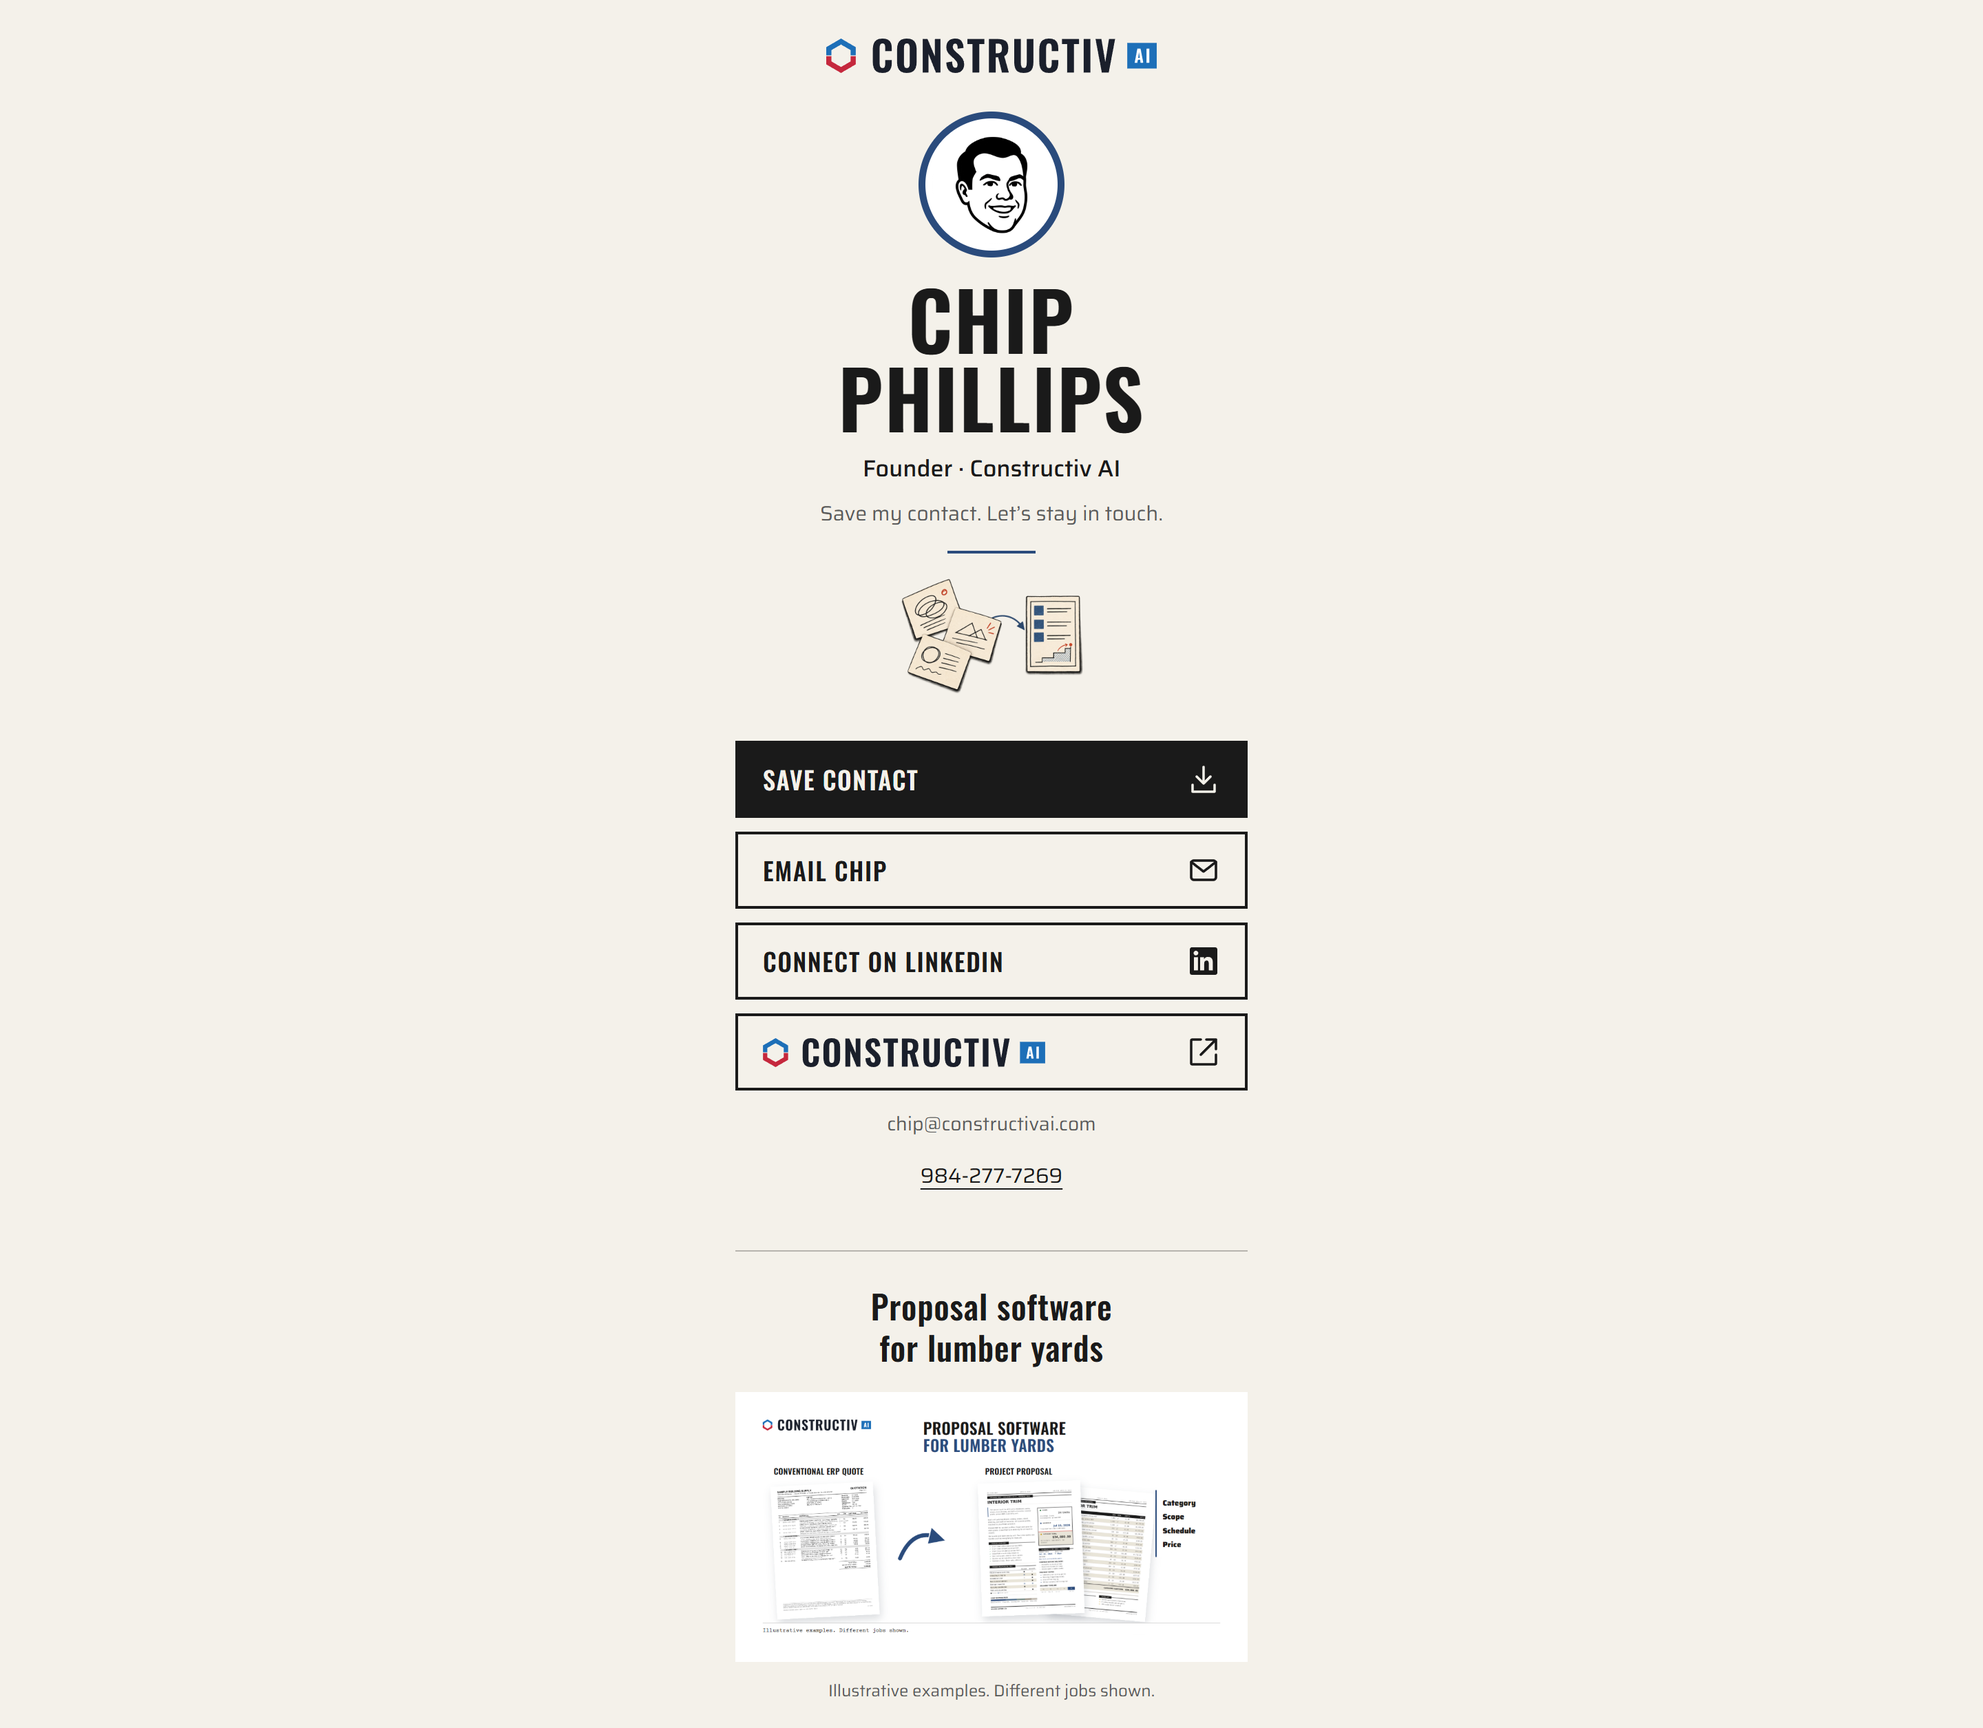
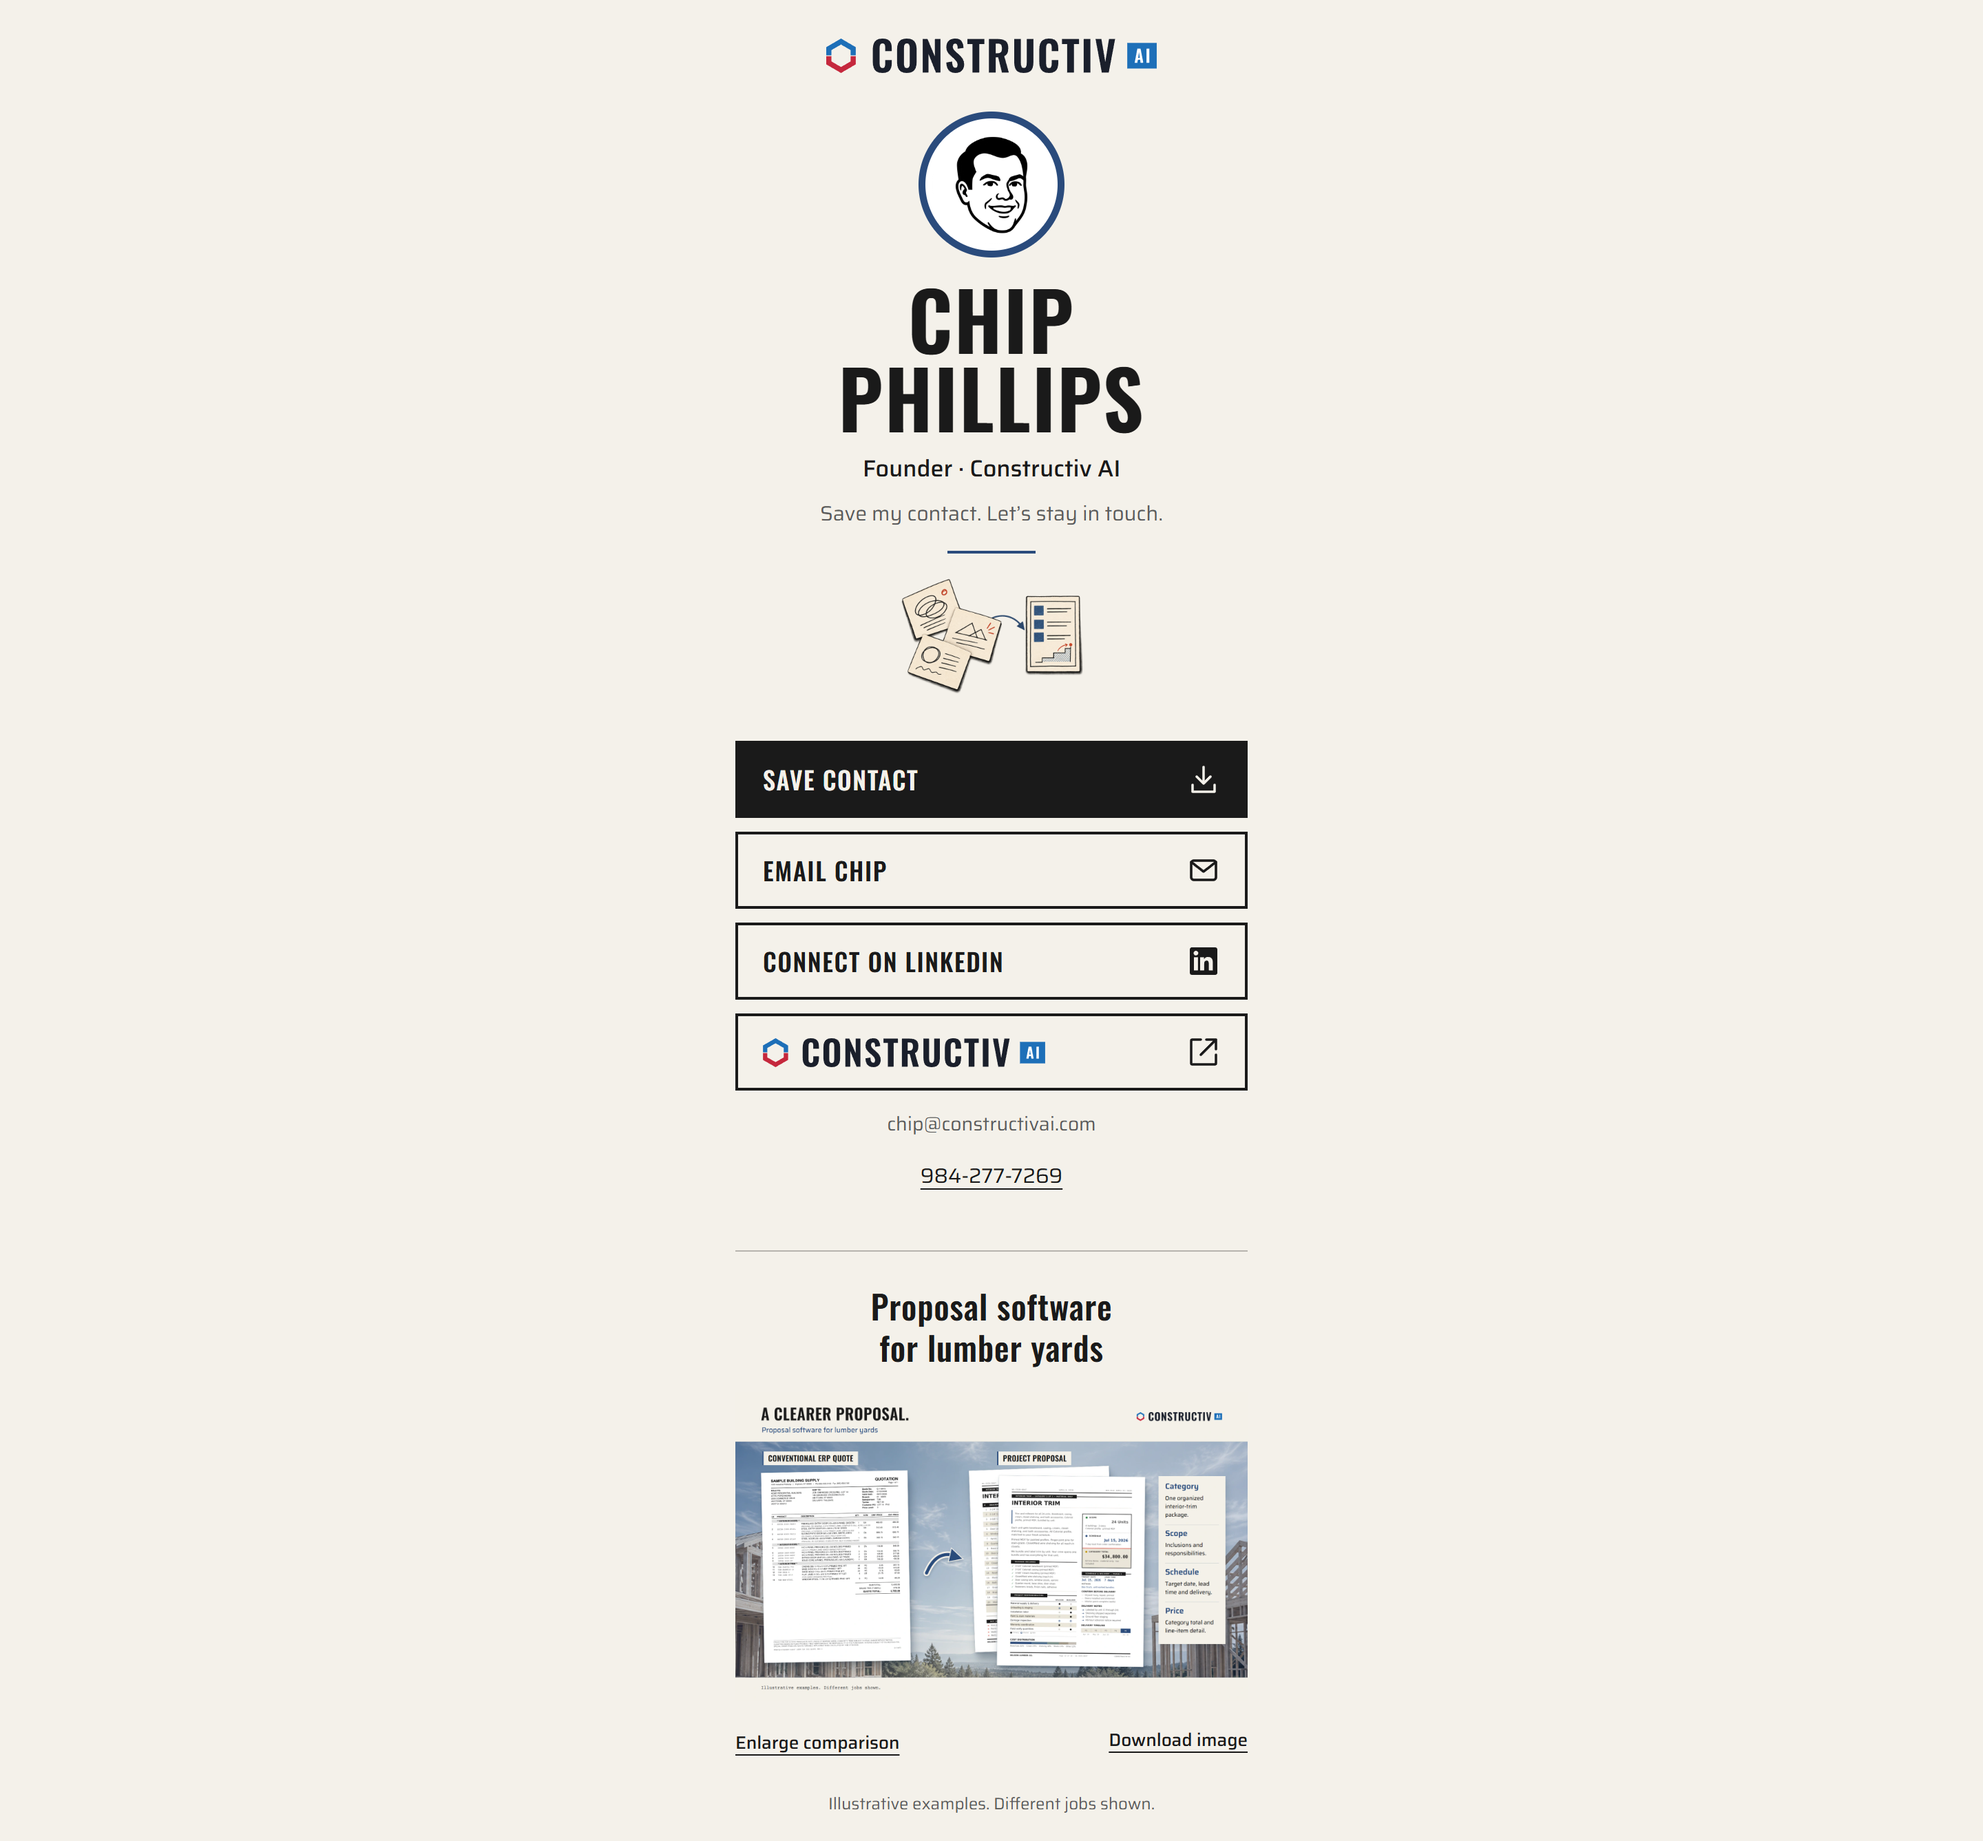
Polish share artwork and add accessible comparison viewer

Changed region(s): [[0.3438, 0.0311, 0.6562, 0.9944]]

diff --git a/docs/index.html b/docs/index.html
@@ -1,5 +1,5 @@
 <!doctype html>
-<html lang="en"><head><meta charset="utf-8"><meta name="viewport" content="width=device-width, initial-scale=1"><meta name="color-scheme" content="light"><title>Chip Phillips | Founder, Constructiv AI</title><meta name="description" content="Connect with Chip Phillips, Founder of Constructiv AI. Save his contact card, send an email, or visit Constructiv AI."><meta property="og:type" content="profile"><meta property="og:title" content="Chip Phillips | Constructiv AI"><meta property="og:description" content="Founder, Constructiv AI. Save my contact details and stay in touch."><meta property="og:site_name" content="Constructiv AI"><link rel="stylesheet" href="style.css"><link rel="canonical" href="https://chipphillips.github.io/chip-contact/"><meta property="og:url" content="https://chipphillips.github.io/chip-contact/"><meta property="og:image" content="https://chipphillips.github.io/chip-contact/assets/chip-phillips-contact-v2.png"><meta property="og:image:width" content="1200"><meta property="og:image:height" content="630"><meta property="og:image:alt" content="Chip Phillips, Founder of Constructiv AI, with an illustrated portrait and notes-to-plan illustration."><meta name="twitter:card" content="summary_large_image"><meta name="twitter:image" content="https://chipphillips.github.io/chip-contact/assets/chip-phillips-contact-v2.png"><meta name="twitter:title" content="Chip Phillips | Constructiv AI"><meta name="twitter:description" content="Founder, Constructiv AI. Save my contact details and stay in touch."></head>
+<html lang="en"><head><meta charset="utf-8"><meta name="viewport" content="width=device-width, initial-scale=1"><meta name="color-scheme" content="light"><title>Chip Phillips | Founder, Constructiv AI</title><meta name="description" content="Connect with Chip Phillips, Founder of Constructiv AI. Save his contact card, send an email, or visit Constructiv AI."><meta property="og:type" content="profile"><meta property="og:title" content="Chip Phillips | Constructiv AI"><meta property="og:description" content="Founder, Constructiv AI. Save my contact details and stay in touch."><meta property="og:site_name" content="Constructiv AI"><link rel="stylesheet" href="style.css"><link rel="canonical" href="https://chipphillips.github.io/chip-contact/"><meta property="og:url" content="https://chipphillips.github.io/chip-contact/"><meta property="og:image" content="https://chipphillips.github.io/chip-contact/assets/chip-phillips-contact-v3.png"><meta property="og:image:width" content="1200"><meta property="og:image:height" content="630"><meta property="og:image:alt" content="Chip Phillips, Founder of Constructiv AI, with his portrait, email, phone number, and a jobsite background."><meta name="twitter:card" content="summary_large_image"><meta name="twitter:image" content="https://chipphillips.github.io/chip-contact/assets/chip-phillips-contact-v3.png"><meta name="twitter:title" content="Chip Phillips | Constructiv AI"><meta name="twitter:description" content="Founder, Constructiv AI. Save my contact details and stay in touch."></head>
 <body>
 
 <main>
@@ -20,5 +20,5 @@
 </nav>
 <p class="contact-address">chip@constructivai.com</p>
 <p class="phone"><a href="tel:+19842777269">984-277-7269</a></p>
-<section class="product" aria-labelledby="product-title"><h2 id="product-title">Proposal software<br>for lumber yards</h2><a class="comparison" href="assets/quote-proposal-comparison.png" aria-label="View the quote and proposal comparison at full size"><img src="assets/quote-proposal-comparison.png" width="1200" height="630" alt="Conventional ERP quote and a project proposal organized by category, scope, schedule, and price."></a><p>Illustrative examples. Different jobs shown.</p></section>
-</main></body></html>
+<section class="product" aria-labelledby="product-title"><h2 id="product-title">Proposal software<br>for lumber yards</h2><a class="comparison" id="comparison-open" aria-haspopup="dialog" href="assets/quote-proposal-v3-large.png" aria-label="View the quote and proposal comparison at full size"><img src="assets/quote-proposal-v3.webp" width="1800" height="1080" alt="Conventional ERP quote and a project proposal organized by category, scope, schedule, and price."></a><div class="image-tools"><button type="button" id="enlarge-button">Enlarge comparison</button><a href="assets/quote-proposal-v3-large.png" download="Constructiv-AI-comparison.png">Download image</a></div><p>Illustrative examples. Different jobs shown.</p></section>
+</main><dialog id="image-viewer" aria-labelledby="viewer-title"><div class="viewer-head"><h2 id="viewer-title">Quote &amp; proposal comparison</h2><button type="button" id="viewer-close" autofocus aria-label="Close enlarged image">Close <span aria-hidden="true">×</span></button></div><div class="viewer-scroll" tabindex="0" aria-label="Enlarged comparison; scroll to explore"><img src="assets/quote-proposal-v3-large.png" width="3600" height="2160" loading="lazy" alt="Conventional ERP quote and a project proposal organized by category, scope, schedule, and price."></div><div class="viewer-footer"><p><span class="pan-hint">Swipe sideways to explore the full image.<br></span>Illustrative examples. Different jobs shown.</p><a href="assets/quote-proposal-v3-large.png" download="Constructiv-AI-comparison.png">Download image</a></div></dialog><script src="viewer.js" defer></script></body></html>

diff --git a/docs/style.css b/docs/style.css
@@ -21,3 +21,7 @@ h1{font:650 52px/.98 Oswald,'Arial Narrow',sans-serif;margin:0;letter-spacing:0}
 .brand-action img{width:205px;max-width:82%;height:auto}.phone{text-align:center;margin:5px 0 0;font-size:15px}.phone a{color:var(--ink);text-underline-offset:4px;display:inline-flex;align-items:center;min-height:44px}.product{border-top:1px solid #b7b4ae;margin-top:32px;padding-top:24px;text-align:center}.product h2{font:550 24px/1.25 Oswald,sans-serif;letter-spacing:.018em;margin:0 0 18px}.comparison{display:block;background:#fff}.comparison img{display:block;width:100%;height:auto}.comparison:focus-visible{outline:3px solid var(--blue);outline-offset:3px}.product p{font-size:12px;color:var(--muted);margin:12px 0 0}
 
 .action-icon{flex:0 0 24px;width:24px;height:24px}
+
+.image-tools{display:flex;justify-content:space-between;gap:12px;margin-top:10px}.image-tools button,.image-tools a,.viewer-footer a,#viewer-close{font:500 13px/1.4 Saira,sans-serif;color:var(--ink);background:none;border:0;padding:10px 0;min-height:44px;cursor:pointer;text-underline-offset:4px}.image-tools button{text-decoration:underline}.image-tools :focus-visible,dialog :focus-visible{outline:3px solid var(--blue);outline-offset:3px}.viewer-open{overflow:hidden}#image-viewer{width:min(1280px,calc(100% - 32px));max-width:none;max-height:calc(100dvh - 32px);padding:0;border:1px solid #aeb5be;background:var(--paper);color:var(--ink);overflow:auto;box-shadow:0 16px 64px #0006}#image-viewer::backdrop{background:#111923dc}.viewer-head{display:flex;align-items:center;justify-content:space-between;gap:16px;padding:12px 20px;border-bottom:1px solid #b7b4ae}.viewer-head h2{font:500 20px/1.3 Oswald,sans-serif;margin:0}#viewer-close{padding:10px 8px;flex-shrink:0;font-size:15px}.viewer-scroll{overflow:auto;max-height:calc(100dvh - 205px);background:#d9dfe5}.viewer-scroll img{display:block;width:100%;min-width:850px;height:auto}.viewer-footer{padding:8px 20px;display:flex;align-items:center;justify-content:space-between;gap:16px}.viewer-footer p{font-size:12px;margin:0}.viewer-footer a{flex-shrink:0}@media(max-width:500px){.viewer-head{padding:8px 12px}.viewer-head h2{font-size:18px}.viewer-footer{padding:8px 12px;display:block}.viewer-footer a{display:inline-block}.viewer-scroll{max-height:calc(100dvh - 220px)}}
+
+.pan-hint{display:none}@media(max-width:880px){.pan-hint{display:inline}}

diff --git a/docs/viewer.js b/docs/viewer.js
@@ -1,0 +1,7 @@
+const viewer=document.querySelector('#image-viewer');
+let opener=null;
+for(const trigger of document.querySelectorAll('#comparison-open,#enlarge-button'))trigger.addEventListener('click',event=>{event.preventDefault();opener=trigger;viewer.showModal();document.documentElement.classList.add('viewer-open');});
+document.querySelector('#viewer-close').addEventListener('click',()=>viewer.close());
+viewer.addEventListener('click',event=>{if(event.target!==viewer)return;const r=viewer.getBoundingClientRect();if(event.clientX<r.left||event.clientX>r.right||event.clientY<r.top||event.clientY>r.bottom)viewer.close();});
+viewer.addEventListener('close',()=>{document.documentElement.classList.remove('viewer-open');opener?.focus({preventScroll:true});});
+viewer.addEventListener('keydown',event=>{if(event.key!=='Tab')return;const items=[...viewer.querySelectorAll('button,a[href],[tabindex="0"]')];const first=items[0],last=items.at(-1);if(event.shiftKey&&document.activeElement===first){event.preventDefault();last.focus();}else if(!event.shiftKey&&document.activeElement===last){event.preventDefault();first.focus();}});
